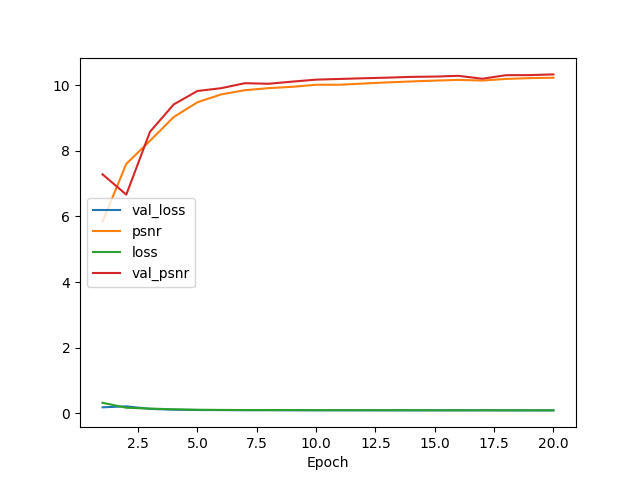
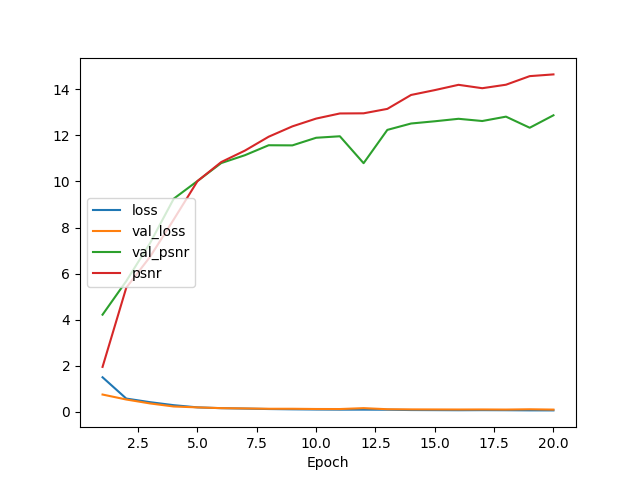
Some additional changes to model

diff --git a/src/model_rohit.py b/src/model_rohit.py
@@ -19,6 +19,8 @@ import keras.backend as K
 CONV_FACTOR = np.log(10)
 history = History()
 
+VGG_MEAN = [103.939, 116.779, 123.68]
+
 def main():
     global args
     args = parse_args()
@@ -38,7 +40,7 @@ def parse_args():
                         default='hdr-infer-model.h5',
                         help='Output model filename')
     parser.add_argument('--max-samples', dest='max_samples', type=int,
-                        default=1000)
+                        default=None)
     parser.add_argument('--epochs', dest='num_epochs', type=int,
         default=100)
     parser.add_argument('--batch_size', dest='batch_size', type=int,
@@ -52,17 +54,17 @@ def train_model(dataset):
     X, Y = dataset
     model.summary()
     model.fit(X, Y, epochs=args.num_epochs, batch_size=args.batch_size,
-        verbose=2, validation_split=0.2, shuffle=True, callbacks=[history])
+        verbose=1, validation_split=0.2, shuffle=True, callbacks=[history])
     
     return model
 
 
 def predict_model(model, img):
     out_img = model.predict(img[0:1])
-    out_img = out_img * 255
+    out_img = (out_img + 1) * 127.5
     print(out_img.shape)
     pred_img = image.array_to_img(out_img[0])
-    inp_img = image.array_to_img(img[0] * 255)
+    inp_img = image.array_to_img((img[0] + 1) * 127.5)
     #print(pred_img.shape)
     pred_img.save('out_img.jpg')
     inp_img.save('inp_img.jpg')
@@ -73,7 +75,7 @@ def custom_loss(yTrue, yPred):
 
 
 def psnr(yTrue, yPred):
-    return 10 * K.log(1 / K.mean(K.square(yTrue - yPred))) / CONV_FACTOR
+    return 10 * K.log(2 / K.mean(K.square(yTrue - yPred))) / CONV_FACTOR
 #    print(mse)
 #    if mse == 0:
 #        return 100
@@ -86,7 +88,7 @@ def ldr_encoder():
         include_top=False,
         weights='imagenet',
         input_shape=(224, 224, 3))
-    for layer in vgg16_input.layers[:15]:
+    for layer in vgg16_input.layers[:17]:
         layer.trainable = False
     inp_img = vgg16_input.layers[0].input
     skip1 = vgg16_input.layers[2].output
@@ -111,23 +113,23 @@ def hdr_decoder(inp_img, skip1, skip2, skip3, skip4, latent_rep):
     network = decoder_layer(latent_rep, 512, 3, 2)
     
     network = Concatenate(axis = -1)([network, skip4])
-    network = Conv2D(512, 1, activation='relu')(network)
+    network = Conv2D(512, 1, activation='linear')(network)
     network = decoder_layer(network, 256, 3, 2)
     
     network = Concatenate(axis = -1)([network, skip3])
-    network = Conv2D(256, 1, activation='relu')(network)
+    network = Conv2D(256, 1, activation='linear')(network)
     network = decoder_layer(network, 128, 3, 2)
     
     network = Concatenate(axis = -1)([network, skip2])
-    network = Conv2D(128, 1, activation='relu')(network)
+    network = Conv2D(128, 1, activation='linear')(network)
     network = decoder_layer(network, 64, 3, 2)
     
     network = Concatenate(axis = -1)([network, skip1])
-    network = Conv2D(64, 1, activation='relu')(network)
-    network = Conv2D(3, 1, activation='relu')(network)
+    network = Conv2D(64, 1, activation='linear')(network)
+    network = Conv2D(3, 1, activation='linear')(network)
     
     network = Concatenate(axis = -1)([network, inp_img])
-    result = Conv2D(3, 1, activation='relu')(network)
+    result = Conv2D(3, 1, activation='linear')(network)
     #result = decoder_layer(network, 3, 1, 1, act='sigmoid')
     return result
 
@@ -160,12 +162,26 @@ def load_datasets():
         imgy_fp = os.path.join(y_fd, imgy_fn)
         if os.path.isfile(imgx_fp):
             assert(os.path.isfile(imgy_fp))
+            #x = image.img_to_array(image.load_img(imgx_fp))
+            #print("Original Image:")
+            #print(x[0:3, 0:3, :])
+            #red = x[:, :, 0:1] - VGG_MEAN[2]
+            #green = x[:, :, 1:2] - VGG_MEAN[1]
+            #blue = x[:, :, 2:3] - VGG_MEAN[0]
+            #bgr = np.concatenate([blue, green, red], axis = -1)
+            #print(bgr.shape)
+            #print("My Procesing:")
+            #print(bgr[0:3, 0:3, :])
+            #x_process = preprocess_input(x, mode = 'tf')
+            #print("Keras Processing:")
+            #print(x_process[0:3, 0:3, :])
             x.append(image.img_to_array(image.load_img(imgx_fp)))
             y.append(image.img_to_array(image.load_img(imgy_fp)))
 
-    x = np.asarray(x) / 255
+    x = (np.asarray(x) / 127.5) - 1
+    #x = np.asarray(x) / 255
     print(x.shape)
-    y = np.asarray(y) / 255
+    y = (np.asarray(y) / 127.5) - 1
     print(y.shape)
 
     # Normalize input images
